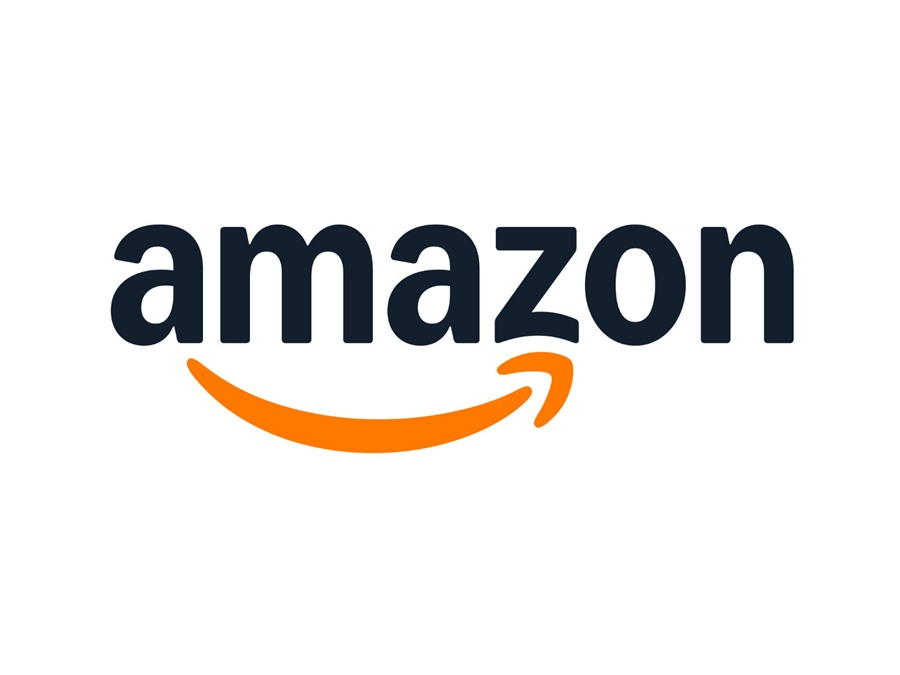
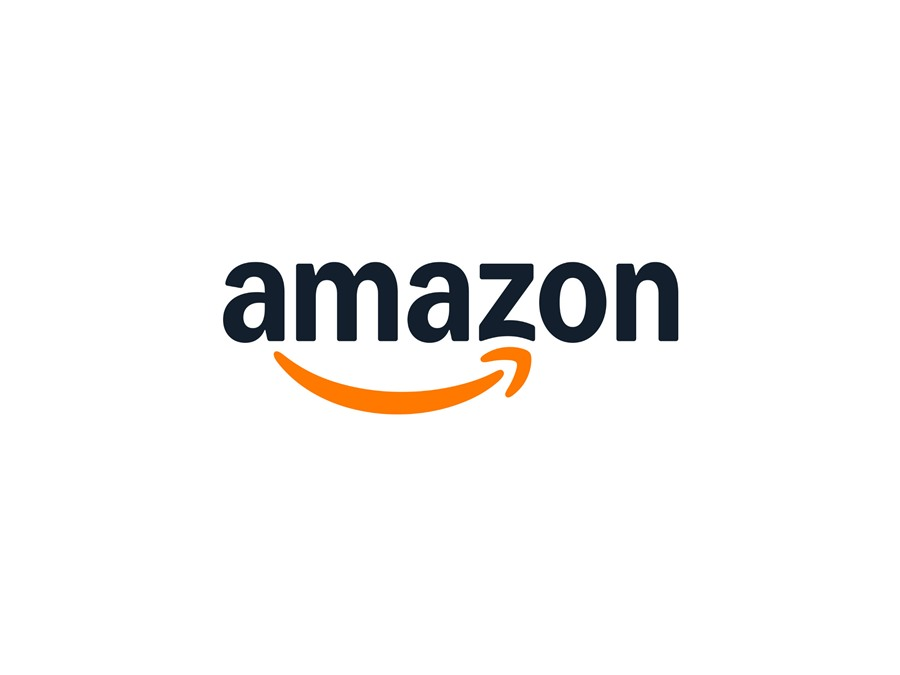
Shrink the Amazon wordmark by a third
Ink now spans 456px of the 900px tile instead of 684px. Still centred:
margins 261px top and bottom, 222px left and right.

Claude-Session: https://claude.ai/code/session_01LAdzVJS6vCrDdx5G8awKFL

Changed region(s): [[0.1244, 0.3111, 0.9022, 0.6844]]

diff --git a/index.html b/index.html
@@ -358,7 +358,7 @@
 
         <article class="card">
           <div class="card-media">
-            <img src="assets/img/thumb-amazon-erfurt.jpg?v=2" alt="Amazon Erfurt Engineering website" />
+            <img src="assets/img/thumb-amazon-erfurt.jpg?v=3" alt="Amazon Erfurt Engineering website" />
           </div>
           <div class="card-body">
             <h3>Amazon Erfurt Engineering</h3>
